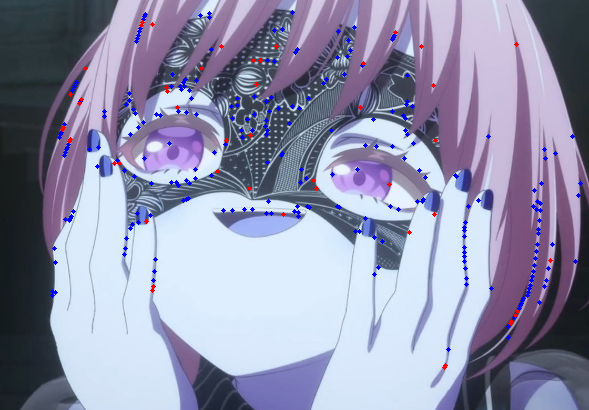
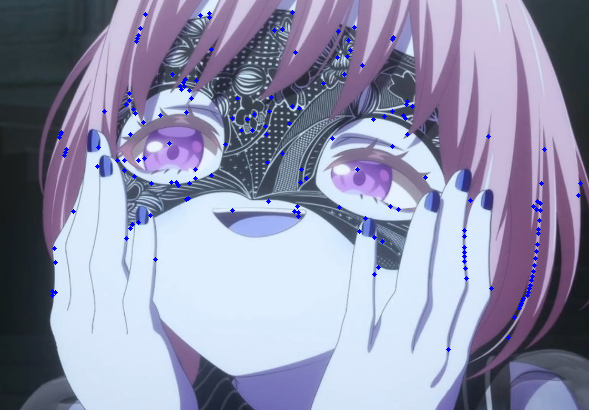
0320

diff --git a/hw1/part1/DoG.py b/hw1/part1/DoG.py
@@ -1,6 +1,7 @@
 import numpy as np
 import cv2
-
+import os
+from PIL import Image
 class Difference_of_Gaussian(object):
     def __init__(self, threshold):
         self.threshold = threshold
@@ -9,7 +10,7 @@ class Difference_of_Gaussian(object):
         self.num_DoG_images_per_octave = 4
         self.num_guassian_images_per_octave = self.num_DoG_images_per_octave + 1
 
-    def get_keypoints(self, image):
+    def get_keypoints(self, image, save_DoG_path = None, img_name = 'DoG_output'):
         """
         Detect DoG keypoints from a grayscale image.
 
@@ -27,7 +28,6 @@ class Difference_of_Gaussian(object):
         #   cv2.resize(..., interpolation=cv2.INTER_NEAREST),
         #   so shape becomes (H//2, W//2).
 
-        # downsize_image = cv2.resize(image, image.shape[0]//2, image.shape[1]//2)
 
         gaussian_images = []
 
@@ -36,15 +36,15 @@ class Difference_of_Gaussian(object):
 
         for _ in range(self.num_octaves):
             # oct_gaussian_imgs_imgs = [iter_img]
-            gaussian_images.append( np.ndarray( (self.num_guassian_images_per_octave, ) + iter_img.shape  ) )
+            gaussian_images.append( np.zeros( (self.num_guassian_images_per_octave, ) + iter_img.shape  ) )
+            gaussian_images[-1][0] = iter_img
             gaussian_filter_sigma = self.sigma
-            for i_img in range(self.num_guassian_images_per_octave):
+            for i_img in range(1, self.num_guassian_images_per_octave):
                 # print(iter_img)
-                iter_img = cv2.GaussianBlur(iter_img, ksize = (0,0), sigmaX = gaussian_filter_sigma)
+                gaussian_images[-1][i_img] = cv2.GaussianBlur(iter_img, ksize = (0,0), sigmaX = gaussian_filter_sigma)
                 # print(iter_img)
-                gaussian_images[-1][i_img] = iter_img
                 # pass
-                gaussian_filter_sigma = gaussian_filter_sigma*gaussian_filter_sigma
+                gaussian_filter_sigma *= self.sigma
 
             iter_img = gaussian_images[-1][-1]
             iter_img = cv2.resize(iter_img, (iter_img.shape[1]//2, iter_img.shape[0]//2), interpolation = cv2.INTER_NEAREST)        
@@ -53,18 +53,23 @@ class Difference_of_Gaussian(object):
 
         # Step 2: Build DoG pyramid (2 octaves, 4 DoG images per octave)
         # - For each octave, subtract adjacent Gaussian images:
-        #   DoG_i = Gaussian_{i+1} - Gaussian_i.
+        #   DoG_i = Gaussian_{i+1} Gaussian_i.
         # - Use cv2.subtract(second_image, first_image).
         # - DoG image shape is the same as its corresponding Gaussian image.
         dog_images = []
-        for octave_gaussian_imgs in gaussian_images:
+        for octave_idx, octave_gaussian_imgs in enumerate(gaussian_images):
             # oct_dog_imgs = []
-            dog_images.append( np.ndarray((self.num_DoG_images_per_octave, ) + octave_gaussian_imgs[0].shape) )
-            print(len(octave_gaussian_imgs))
+            dog_images.append( np.zeros((self.num_DoG_images_per_octave, ) + octave_gaussian_imgs[0].shape) )
+            # print(len(octave_gaussian_imgs))
             for i_img  in range(self.num_DoG_images_per_octave):
                 # pass
                 DoG_img = cv2.subtract( octave_gaussian_imgs[i_img + 1], octave_gaussian_imgs[i_img] )
                 dog_images[-1][i_img] = DoG_img
+
+                if save_DoG_path is not None:
+                    img_save_path = os.path.join(save_DoG_path, f'{img_name}_octave{octave_idx}_sigma{i_img+1}.jpg')
+                    DoG = Image.fromarray(DoG_img.astype(np.int8), mode = 'L')
+                    DoG.save(img_save_path)
 
             # dog_images.append( oct_dog_imgs )
         # Step 3: Threshold and find 3D local extrema in DoG volume
@@ -77,26 +82,48 @@ class Difference_of_Gaussian(object):
         # - Coordinates stored in keypoints must be in original image scale:
         #   octave 1 -> [y, x], octave 2 -> [2*y, 2*x].
         keypoints = []
-        print(len(dog_images))
-        print(len(dog_images[0]))
-        print([[img.shape for img in images] for images in dog_images])
 
         for i_octave in range(self.num_octaves):
+            base = 2**i_octave
             for i_img in range(1, len(dog_images[i_octave])-1):
                 base_img = dog_images[i_octave][i_img]
-                mask = base_img > self.threshold
+                mask = np.abs(base_img) > self.threshold
                 Y, X = np.where(mask)
 
                 for y,x in zip(Y, X):
                     dog_value = base_img[y, x]
                     # for 
-                    Ly, Ry = max([0, y-1]), min(base_img.shape[0], y+1)
-                    Lx, Rx = max([0, x-1]), min(base_img.shape[1], x+1)
+                    Ly, Ry = max([0, y-1]), min(base_img.shape[0], y+2)
+                    Lx, Rx = max([0, x-1]), min(base_img.shape[1], x+2)
+                    # dog_slice = dog_images[i_octave][i_img-1:i_img+2, Ly:Ry, Lx:Rx]
+                    # print(dog_slice.shape)
+                    # patch = []
+                    mx_neighborhood = -np.inf
+                    mn_neighborhood = np.inf
+                    # for nx in range(Lx, Rx):
+                    #     for ny in range(Ly, Ry):
+                    #         if ny ==y and nx == x:
+                    #             continue
+                    #         neighbor_val = dog_images[i_octave][i_img][ny][nx]
+                    #         mx_neighborhood = neighbor_val if neighbor_val > mx_neighborhood else mx_neighborhood
+                    #         mn_neighborhood = neighbor_val if neighbor_val < mn_neighborhood else mn_neighborhood
+
+                    for s in [-1, 0, 1]:
+                        mx_neighborhood = max([
+                            mx_neighborhood,
+                            np.max(dog_images[i_octave][i_img + s][Ly:Ry, Lx:Rx])
+                        ])
+
+                        mn_neighborhood = min([
+                            mn_neighborhood,
+                            np.min(dog_images[i_octave][i_img + s][Ly:Ry, Lx:Rx])
+                        ])
                     
                     try:
-                        if dog_value >= np.max( dog_images[i_octave][i_img-1:i_img+1, Ly:Ry, Lx:Rx] ):
+                        if dog_value >= mx_neighborhood or dog_value <= mn_neighborhood:
                         # continue
-                            keypoints.append( (y,x) )
+                            keypoints.append( (y*base, x*base) )
+
                     except Exception as e:
                         print(i_img, Ly, Ry, Lx, Rx)
                         print([(type(img), img.shape) for img in dog_images[i_octave][i_img-1:i_img+1]])
@@ -109,9 +136,11 @@ class Difference_of_Gaussian(object):
         # Step 4: Remove duplicate keypoints
         # - Use np.unique(..., axis=0).
         # - Expected shape after this step: (N, 2).
+        print('number of keypoints:', len(keypoints))
         keypoints = np.asarray(keypoints)
+        # keypoints = np.unique(keypoints)
         keypoints = np.unique(keypoints, axis = 0)
-
         # Sort points using np.lexsort((col, row)) -> primary key col, secondary key row.
         keypoints = keypoints[np.lexsort((keypoints[:,1],keypoints[:,0]))]
+        # print(keypoints)
         return keypoints

diff --git a/hw1/part1/main.py b/hw1/part1/main.py
@@ -2,7 +2,7 @@ import numpy as np
 import cv2
 import argparse
 from DoG import Difference_of_Gaussian
-
+from PIL import Image
 
 def plot_keypoints(img_gray, keypoints, save_path):
     img = np.repeat(np.expand_dims(img_gray, axis = 2), 3, axis = 2)
@@ -14,13 +14,25 @@ def main():
     parser = argparse.ArgumentParser(description='main function of Difference of Gaussian')
     parser.add_argument('--threshold', default=5.0, type=float, help='threshold value for feature selection')
     parser.add_argument('--image_path', default='./testdata/1.png', help='path to input image')
+    parser.add_argument('--DoG_save_path', default='./DoG_outputs/', help='path to input image')
+    
     args = parser.parse_args()
 
     print('Processing %s ...'%args.image_path)
     img = cv2.imread(args.image_path, 0).astype(np.float32)
+    DoG = Difference_of_Gaussian(args.threshold)
+    keypoints = DoG.get_keypoints(img)
 
-    ### TODO ###
 
+    # 讀圖（要用彩色才能畫紅點）
+    img_color = cv2.imread(args.image_path)
+
+    # 畫 keypoints
+    for y, x in keypoints:   # 注意你的格式是 (row, col)
+        cv2.circle(img_color, (int(x), int(y)), 2, (0, 0, 255), -1)  # 藍色點
+
+    im = Image.fromarray(img_color)
+    im.save("output.png")
 
 if __name__ == '__main__':
     main()
